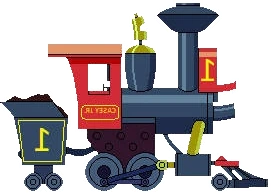
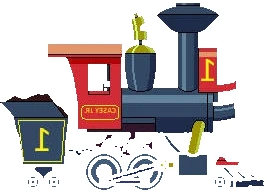
fix(#45): Malivlak+Casey rails cleaned, sprite 1.3x bigger, wheels 0.8x smaller, G15 on-rail position
User feedback (G15 savannah screenshot):
1. Character sprites too small → spriteHeight 1.3x (Casey 90→117, Malivlak 110→143)
2. Wheels too big → radius 0.8x (r=10→8 Casey, r=8→6 + r=5→4 + r=10→8 Malivlak)
3. Rail lines from source leaked into sprite → aggressive bottom 30% black-pixel strip in rembg pipeline
4. Train floating above rail → G15 trainContainer.y += spriteHeight/2 - 4 (baseline on rail, not center of lane)

Files:
- trains-db.js: Casey + Malivlak spriteHeight + wheelPositions updated
- g16-pixi.html G16_CHAR_CONFIGS: same updates mirrored
- g15-pixi.html buildTrain: character-specific Y offset based on spriteHeight
- assets/train/caseyjr-body.webp: 272×196 → 267×193 (rails stripped)
- assets/train/malivlak-body.webp: 600×336 → 600×298 (rails stripped)

Cache: v=n → v=o

diff --git a/games/trains-db.js b/games/trains-db.js
@@ -8,9 +8,10 @@ const TRAIN_CATS = [
       // smokePos Y < -spriteHeight = ABOVE sprite top (not overlapping body).
       {key:'caseyjr_character', name:'Casey JR', sub:'0-4-0 Circus', emoji:'🚂',
        isCharacter:true, spriteUrl:'../assets/train/caseyjr-body.webp',
-       wheelLayout:'0-4-0', spriteHeight:90,
-       wheelPositions:[[-40,-8,10],[-14,-8,10],[13,-8,10],[40,-8,10]],
-       smokePos:[-40,-110],
+       wheelLayout:'0-4-0', spriteHeight:117,
+       // Sprite 267×193 (rails cleaned). spriteHeight 90→117 (1.3x). Wheels r 10→8 (0.8x).
+       wheelPositions:[[-40,-10,8],[-14,-10,8],[13,-10,8],[40,-10,8]],
+       smokePos:[-40,-130],
        bodyColor:'#1e2a4a', accColor:'#c0392b', kmh:40, baseSpeed:1.65, boostMult:1.50, boostDur:1500,
        desc:'Lokomotif sirkus Casey JR! Si kecil yang berani.'},
       {key:'linus_brave', name:'Linus Brave', sub:'2-4-0 Sumatera', emoji:'🚂',
@@ -31,13 +32,13 @@ const TRAIN_CATS = [
        desc:'JZ 711 Dragutin — Tram listrik artikulasi Yugoslavia!'},
       {key:'jz62_malivlak', name:'Malivlak', sub:'JZ 62 Steam + 3 Cars', emoji:'🚂',
        isCharacter:true, spriteUrl:'../assets/train/malivlak-body.webp',
-       wheelLayout:'passenger-train', spriteHeight:110,
-       // Sprite 600×336 (re-cropped 2026-04-22 via manual threshold), rendered ~196×110. 10 wheels.
+       wheelLayout:'passenger-train', spriteHeight:143,
+       // Sprite 600×298 (rails cleaned). spriteHeight 110→143 (1.3x). Wheels r reduced 0.8x.
        wheelPositions:[
-         [-76,-9,8],[-56,-9,8],[-42,-9,8],[-23,-9,8],
-         [-9,-9,8],[12,-9,8],[32,-5,5],[43,-5,5],[56,-9,10],[80,-9,10]
+         [-76,-11,6],[-56,-11,6],[-42,-11,6],[-23,-11,6],
+         [-9,-11,6],[12,-11,6],[32,-7,4],[43,-7,4],[56,-11,8],[80,-11,8]
        ],
-       smokePos:[82,-125],
+       smokePos:[82,-160],
        bodyColor:'#4a2040', accColor:'#c0392b', kmh:48, baseSpeed:1.75, boostMult:1.50, boostDur:1550,
        desc:'Malivlak — Kereta uap dengan 3 gerbong, klasik Yugoslavia!'},
     ]

diff --git a/games/g16-pixi.html b/games/g16-pixi.html
@@ -847,9 +847,10 @@ function buildAmbient(W,H){
 let g16CharacterTrain = null;
 const G16_CHAR_CONFIGS = {
   caseyjr_character: {
-    spriteUrl:'../assets/train/caseyjr-body.webp', spriteHeight:90,
-    wheelPositions:[[-40,-8,10],[-14,-8,10],[13,-8,10],[40,-8,10]],
-    smokePos:[-40,-110], bodyBobFreq:0.08, bodyBobAmp:1.5, smokeInterval:10
+    spriteUrl:'../assets/train/caseyjr-body.webp', spriteHeight:117,
+    // spriteHeight 1.3x, wheel radius 0.8x (was r=10, now r=8)
+    wheelPositions:[[-40,-10,8],[-14,-10,8],[13,-10,8],[40,-10,8]],
+    smokePos:[-40,-130], bodyBobFreq:0.08, bodyBobAmp:1.5, smokeInterval:10
   },
   linus_brave: {
     spriteUrl:'../assets/train/linus-body.webp', spriteHeight:90,
@@ -864,13 +865,13 @@ const G16_CHAR_CONFIGS = {
     smokePos:null, bodyBobFreq:0.10, bodyBobAmp:1.0, smokeInterval:10
   },
   jz62_malivlak: {
-    spriteUrl:'../assets/train/malivlak-body.webp', spriteHeight:110,
-    // Sprite 600×336 (re-cropped), rendered ~196×110. 10 wheels scaled to 90% of old span.
+    spriteUrl:'../assets/train/malivlak-body.webp', spriteHeight:143,
+    // Sprite 600×298 (rails cleaned). spriteHeight 1.3x, wheel radius 0.8x.
     wheelPositions:[
-      [-76,-9,8],[-56,-9,8],[-42,-9,8],[-23,-9,8],
-      [-9,-9,8],[12,-9,8],[32,-5,5],[43,-5,5],[56,-9,10],[80,-9,10]
+      [-76,-11,6],[-56,-11,6],[-42,-11,6],[-23,-11,6],
+      [-9,-11,6],[12,-11,6],[32,-7,4],[43,-7,4],[56,-11,8],[80,-11,8]
     ],
-    smokePos:[82,-125], bodyBobFreq:0.08, bodyBobAmp:1.5, smokeInterval:12
+    smokePos:[82,-160], bodyBobFreq:0.08, bodyBobAmp:1.5, smokeInterval:12
   }
 };
 

diff --git a/games/g15-pixi.html b/games/g15-pixi.html
@@ -1048,6 +1048,8 @@ function buildTrain() {
 
   // Character train branch — mount bg-removed WebP sprite with animated wheels + smoke
   if (selectedTrain.isCharacter && window.CharacterTrain) {
+    // Character sprites are bottom-anchored — shift so sprite baseline rests ON rail (not center of lane)
+    trainContainer.y = LANE_Y[1] + (selectedTrain.spriteHeight ? selectedTrain.spriteHeight / 2 - 4 : 40);
     // Sprite faces RIGHT naturally (was flipped in source) — don't mirror container
     trainContainer.scale.x = 1;
     characterTrainInstance = CharacterTrain.mount(trainContainer, selectedTrain);

diff --git a/index.html b/index.html
@@ -6,7 +6,7 @@
 <title>Dunia Emosi 🐾</title>
 <link href="https://fonts.googleapis.com/css2?family=Nunito:wght@400;700;900&family=Fredoka+One&display=swap" rel="stylesheet">
 
-<link rel="stylesheet" href="style.css?v=20260422n">
+<link rel="stylesheet" href="style.css?v=20260422o">
 </head>
 <body>
 <!-- Loading indicator — hidden by JS after page loads -->
@@ -2056,6 +2056,6 @@ function loadPixiJS(cb) {
   document.head.appendChild(s)
 }
 </script>
-<script src="game.js?v=20260422n" defer></script>
+<script src="game.js?v=20260422o" defer></script>
 </body>
 </html>
